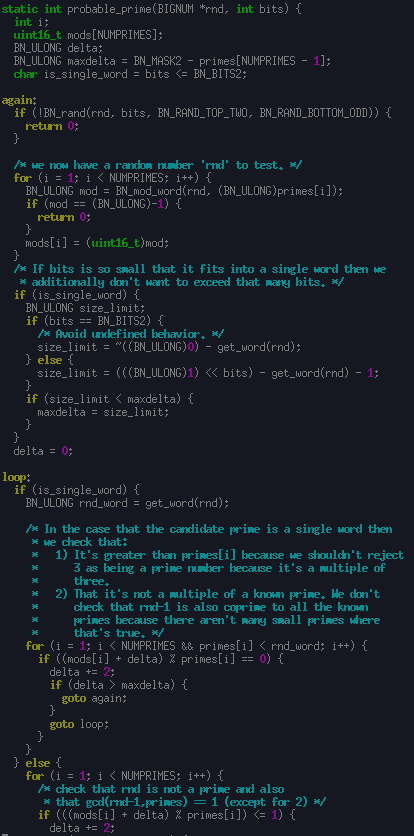
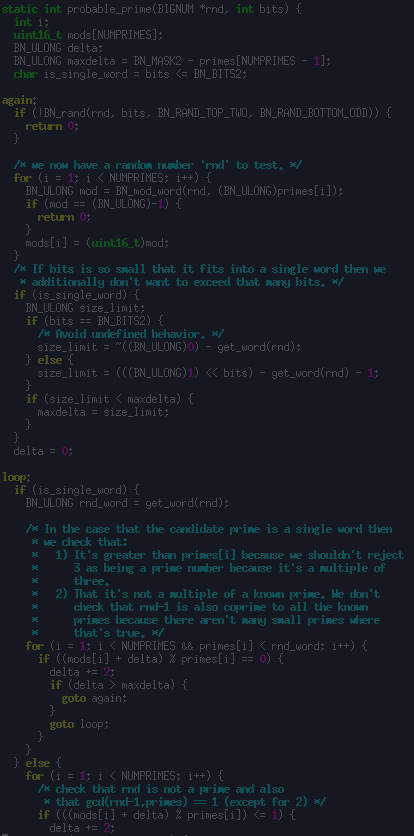
Color tweaks.

diff --git a/rsa_2019_10_29/tables/mul_mod_13.tex b/rsa_2019_10_29/tables/mul_mod_13.tex
@@ -1,16 +1,16 @@
 \(\begin{array}{p{3mm}|p{2mm}p{2mm}p{2mm}p{2mm}p{2mm}p{2mm}p{2mm}p{2mm}p{2mm}p{2mm}p{2mm}p{2mm}p{2mm}}
-\(*\) & {\color{cyan}0} & {\bf\color{green}1} & {\color{white}2} & {\color{white}3} & {\color{white}4} & {\color{white}5} & {\color{white}6} & {\color{white}7} & {\color{white}8} & {\color{white}9} & {\color{white}10} & {\color{white}11} & {\color{white}12}\\\hline
-{\color{cyan}0}&{\color{cyan}0}&{\color{cyan}0}&{\color{cyan}0}&{\color{cyan}0}&{\color{cyan}0}&{\color{cyan}0}&{\color{cyan}0}&{\color{cyan}0}&{\color{cyan}0}&{\color{cyan}0}&{\color{cyan}0}&{\color{cyan}0}&{\color{cyan}0}\\
-{\bf\color{green}1}&{\color{cyan}0}&{\bf\color{green}1}&{\color{white}2}&{\color{white}3}&{\color{white}4}&{\color{white}5}&{\color{white}6}&{\color{white}7}&{\color{white}8}&{\color{white}9}&{\color{white}10}&{\color{white}11}&{\color{white}12}\\
-{\color{white}2}&{\color{cyan}0}&{\color{white}2}&{\color{white}4}&{\color{white}6}&{\color{white}8}&{\color{white}10}&{\color{white}12}&{\bf\color{green}1}&{\color{white}3}&{\color{white}5}&{\color{white}7}&{\color{white}9}&{\color{white}11}\\
-{\color{white}3}&{\color{cyan}0}&{\color{white}3}&{\color{white}6}&{\color{white}9}&{\color{white}12}&{\color{white}2}&{\color{white}5}&{\color{white}8}&{\color{white}11}&{\bf\color{green}1}&{\color{white}4}&{\color{white}7}&{\color{white}10}\\
-{\color{white}4}&{\color{cyan}0}&{\color{white}4}&{\color{white}8}&{\color{white}12}&{\color{white}3}&{\color{white}7}&{\color{white}11}&{\color{white}2}&{\color{white}6}&{\color{white}10}&{\bf\color{green}1}&{\color{white}5}&{\color{white}9}\\
-{\color{white}5}&{\color{cyan}0}&{\color{white}5}&{\color{white}10}&{\color{white}2}&{\color{white}7}&{\color{white}12}&{\color{white}4}&{\color{white}9}&{\bf\color{green}1}&{\color{white}6}&{\color{white}11}&{\color{white}3}&{\color{white}8}\\
-{\color{white}6}&{\color{cyan}0}&{\color{white}6}&{\color{white}12}&{\color{white}5}&{\color{white}11}&{\color{white}4}&{\color{white}10}&{\color{white}3}&{\color{white}9}&{\color{white}2}&{\color{white}8}&{\bf\color{green}1}&{\color{white}7}\\
-{\color{white}7}&{\color{cyan}0}&{\color{white}7}&{\bf\color{green}1}&{\color{white}8}&{\color{white}2}&{\color{white}9}&{\color{white}3}&{\color{white}10}&{\color{white}4}&{\color{white}11}&{\color{white}5}&{\color{white}12}&{\color{white}6}\\
-{\color{white}8}&{\color{cyan}0}&{\color{white}8}&{\color{white}3}&{\color{white}11}&{\color{white}6}&{\bf\color{green}1}&{\color{white}9}&{\color{white}4}&{\color{white}12}&{\color{white}7}&{\color{white}2}&{\color{white}10}&{\color{white}5}\\
-{\color{white}9}&{\color{cyan}0}&{\color{white}9}&{\color{white}5}&{\bf\color{green}1}&{\color{white}10}&{\color{white}6}&{\color{white}2}&{\color{white}11}&{\color{white}7}&{\color{white}3}&{\color{white}12}&{\color{white}8}&{\color{white}4}\\
-{\color{white}10}&{\color{cyan}0}&{\color{white}10}&{\color{white}7}&{\color{white}4}&{\bf\color{green}1}&{\color{white}11}&{\color{white}8}&{\color{white}5}&{\color{white}2}&{\color{white}12}&{\color{white}9}&{\color{white}6}&{\color{white}3}\\
-{\color{white}11}&{\color{cyan}0}&{\color{white}11}&{\color{white}9}&{\color{white}7}&{\color{white}5}&{\color{white}3}&{\bf\color{green}1}&{\color{white}12}&{\color{white}10}&{\color{white}8}&{\color{white}6}&{\color{white}4}&{\color{white}2}\\
-{\color{white}12}&{\color{cyan}0}&{\color{white}12}&{\color{white}11}&{\color{white}10}&{\color{white}9}&{\color{white}8}&{\color{white}7}&{\color{white}6}&{\color{white}5}&{\color{white}4}&{\color{white}3}&{\color{white}2}&{\bf\color{green}1}\\
+\(*\) & {\color{cybercyan}0} & {\bf\color{green}1} & {\color{white}2} & {\color{white}3} & {\color{white}4} & {\color{white}5} & {\color{white}6} & {\color{white}7} & {\color{white}8} & {\color{white}9} & {\color{white}10} & {\color{white}11} & {\color{white}12}\\\hline
+{\color{cybercyan}0}&{\color{cybercyan}0}&{\color{cybercyan}0}&{\color{cybercyan}0}&{\color{cybercyan}0}&{\color{cybercyan}0}&{\color{cybercyan}0}&{\color{cybercyan}0}&{\color{cybercyan}0}&{\color{cybercyan}0}&{\color{cybercyan}0}&{\color{cybercyan}0}&{\color{cybercyan}0}&{\color{cybercyan}0}\\
+{\bf\color{green}1}&{\color{cybercyan}0}&{\bf\color{green}1}&{\color{white}2}&{\color{white}3}&{\color{white}4}&{\color{white}5}&{\color{white}6}&{\color{white}7}&{\color{white}8}&{\color{white}9}&{\color{white}10}&{\color{white}11}&{\color{white}12}\\
+{\color{white}2}&{\color{cybercyan}0}&{\color{white}2}&{\color{white}4}&{\color{white}6}&{\color{white}8}&{\color{white}10}&{\color{white}12}&{\bf\color{green}1}&{\color{white}3}&{\color{white}5}&{\color{white}7}&{\color{white}9}&{\color{white}11}\\
+{\color{white}3}&{\color{cybercyan}0}&{\color{white}3}&{\color{white}6}&{\color{white}9}&{\color{white}12}&{\color{white}2}&{\color{white}5}&{\color{white}8}&{\color{white}11}&{\bf\color{green}1}&{\color{white}4}&{\color{white}7}&{\color{white}10}\\
+{\color{white}4}&{\color{cybercyan}0}&{\color{white}4}&{\color{white}8}&{\color{white}12}&{\color{white}3}&{\color{white}7}&{\color{white}11}&{\color{white}2}&{\color{white}6}&{\color{white}10}&{\bf\color{green}1}&{\color{white}5}&{\color{white}9}\\
+{\color{white}5}&{\color{cybercyan}0}&{\color{white}5}&{\color{white}10}&{\color{white}2}&{\color{white}7}&{\color{white}12}&{\color{white}4}&{\color{white}9}&{\bf\color{green}1}&{\color{white}6}&{\color{white}11}&{\color{white}3}&{\color{white}8}\\
+{\color{white}6}&{\color{cybercyan}0}&{\color{white}6}&{\color{white}12}&{\color{white}5}&{\color{white}11}&{\color{white}4}&{\color{white}10}&{\color{white}3}&{\color{white}9}&{\color{white}2}&{\color{white}8}&{\bf\color{green}1}&{\color{white}7}\\
+{\color{white}7}&{\color{cybercyan}0}&{\color{white}7}&{\bf\color{green}1}&{\color{white}8}&{\color{white}2}&{\color{white}9}&{\color{white}3}&{\color{white}10}&{\color{white}4}&{\color{white}11}&{\color{white}5}&{\color{white}12}&{\color{white}6}\\
+{\color{white}8}&{\color{cybercyan}0}&{\color{white}8}&{\color{white}3}&{\color{white}11}&{\color{white}6}&{\bf\color{green}1}&{\color{white}9}&{\color{white}4}&{\color{white}12}&{\color{white}7}&{\color{white}2}&{\color{white}10}&{\color{white}5}\\
+{\color{white}9}&{\color{cybercyan}0}&{\color{white}9}&{\color{white}5}&{\bf\color{green}1}&{\color{white}10}&{\color{white}6}&{\color{white}2}&{\color{white}11}&{\color{white}7}&{\color{white}3}&{\color{white}12}&{\color{white}8}&{\color{white}4}\\
+{\color{white}10}&{\color{cybercyan}0}&{\color{white}10}&{\color{white}7}&{\color{white}4}&{\bf\color{green}1}&{\color{white}11}&{\color{white}8}&{\color{white}5}&{\color{white}2}&{\color{white}12}&{\color{white}9}&{\color{white}6}&{\color{white}3}\\
+{\color{white}11}&{\color{cybercyan}0}&{\color{white}11}&{\color{white}9}&{\color{white}7}&{\color{white}5}&{\color{white}3}&{\bf\color{green}1}&{\color{white}12}&{\color{white}10}&{\color{white}8}&{\color{white}6}&{\color{white}4}&{\color{white}2}\\
+{\color{white}12}&{\color{cybercyan}0}&{\color{white}12}&{\color{white}11}&{\color{white}10}&{\color{white}9}&{\color{white}8}&{\color{white}7}&{\color{white}6}&{\color{white}5}&{\color{white}4}&{\color{white}3}&{\color{white}2}&{\bf\color{green}1}\\
 \end{array}\)

diff --git a/rsa_2019_10_29/tables/mul_mod_8.tex b/rsa_2019_10_29/tables/mul_mod_8.tex
@@ -1,11 +1,11 @@
 \(\begin{array}{p{3mm}|p{2mm}p{2mm}p{2mm}p{2mm}p{2mm}p{2mm}p{2mm}p{2mm}}
-\(*\) & {\color{cyan}0} & {\bf\color{green}1} & {\color{white}2} & {\color{white}3} & {\color{white}4} & {\color{white}5} & {\color{white}6} & {\color{white}7}\\\hline
-{\color{cyan}0}&{\color{cyan}0}&{\color{cyan}0}&{\color{cyan}0}&{\color{cyan}0}&{\color{cyan}0}&{\color{cyan}0}&{\color{cyan}0}&{\color{cyan}0}\\
-{\bf\color{green}1}&{\color{cyan}0}&{\bf\color{green}1}&{\color{white}2}&{\color{white}3}&{\color{white}4}&{\color{white}5}&{\color{white}6}&{\color{white}7}\\
-{\color{white}2}&{\color{cyan}0}&{\color{white}2}&{\color{white}4}&{\color{white}6}&{\color{cyan}0}&{\color{white}2}&{\color{white}4}&{\color{white}6}\\
-{\color{white}3}&{\color{cyan}0}&{\color{white}3}&{\color{white}6}&{\bf\color{green}1}&{\color{white}4}&{\color{white}7}&{\color{white}2}&{\color{white}5}\\
-{\color{white}4}&{\color{cyan}0}&{\color{white}4}&{\color{cyan}0}&{\color{white}4}&{\color{cyan}0}&{\color{white}4}&{\color{cyan}0}&{\color{white}4}\\
-{\color{white}5}&{\color{cyan}0}&{\color{white}5}&{\color{white}2}&{\color{white}7}&{\color{white}4}&{\bf\color{green}1}&{\color{white}6}&{\color{white}3}\\
-{\color{white}6}&{\color{cyan}0}&{\color{white}6}&{\color{white}4}&{\color{white}2}&{\color{cyan}0}&{\color{white}6}&{\color{white}4}&{\color{white}2}\\
-{\color{white}7}&{\color{cyan}0}&{\color{white}7}&{\color{white}6}&{\color{white}5}&{\color{white}4}&{\color{white}3}&{\color{white}2}&{\bf\color{green}1}\\
+\(*\) & {\color{cybercyan}0} & {\bf\color{green}1} & {\color{white}2} & {\color{white}3} & {\color{white}4} & {\color{white}5} & {\color{white}6} & {\color{white}7}\\\hline
+{\color{cybercyan}0}&{\color{cybercyan}0}&{\color{cybercyan}0}&{\color{cybercyan}0}&{\color{cybercyan}0}&{\color{cybercyan}0}&{\color{cybercyan}0}&{\color{cybercyan}0}&{\color{cybercyan}0}\\
+{\bf\color{green}1}&{\color{cybercyan}0}&{\bf\color{green}1}&{\color{white}2}&{\color{white}3}&{\color{white}4}&{\color{white}5}&{\color{white}6}&{\color{white}7}\\
+{\color{white}2}&{\color{cybercyan}0}&{\color{white}2}&{\color{white}4}&{\color{white}6}&{\color{cybercyan}0}&{\color{white}2}&{\color{white}4}&{\color{white}6}\\
+{\color{white}3}&{\color{cybercyan}0}&{\color{white}3}&{\color{white}6}&{\bf\color{green}1}&{\color{white}4}&{\color{white}7}&{\color{white}2}&{\color{white}5}\\
+{\color{white}4}&{\color{cybercyan}0}&{\color{white}4}&{\color{cybercyan}0}&{\color{white}4}&{\color{cybercyan}0}&{\color{white}4}&{\color{cybercyan}0}&{\color{white}4}\\
+{\color{white}5}&{\color{cybercyan}0}&{\color{white}5}&{\color{white}2}&{\color{white}7}&{\color{white}4}&{\bf\color{green}1}&{\color{white}6}&{\color{white}3}\\
+{\color{white}6}&{\color{cybercyan}0}&{\color{white}6}&{\color{white}4}&{\color{white}2}&{\color{cybercyan}0}&{\color{white}6}&{\color{white}4}&{\color{white}2}\\
+{\color{white}7}&{\color{cybercyan}0}&{\color{white}7}&{\color{white}6}&{\color{white}5}&{\color{white}4}&{\color{white}3}&{\color{white}2}&{\bf\color{green}1}\\
 \end{array}\)

diff --git a/rsa_2019_10_29/tables/add_mod_8.tex b/rsa_2019_10_29/tables/add_mod_8.tex
@@ -1,11 +1,11 @@
 \(\begin{array}{p{3mm}|p{2mm}p{2mm}p{2mm}p{2mm}p{2mm}p{2mm}p{2mm}p{2mm}}
-\(+\) & {\color{cyan}0} & {\bf\color{green}1} & {\color{white}2} & {\color{white}3} & {\color{white}4} & {\color{white}5} & {\color{white}6} & {\color{white}7}\\\hline
-{\color{cyan}0}&{\color{cyan}0}&{\bf\color{green}1}&{\color{white}2}&{\color{white}3}&{\color{white}4}&{\color{white}5}&{\color{white}6}&{\color{white}7}\\
-{\bf\color{green}1}&{\bf\color{green}1}&{\color{white}2}&{\color{white}3}&{\color{white}4}&{\color{white}5}&{\color{white}6}&{\color{white}7}&{\color{cyan}0}\\
-{\color{white}2}&{\color{white}2}&{\color{white}3}&{\color{white}4}&{\color{white}5}&{\color{white}6}&{\color{white}7}&{\color{cyan}0}&{\bf\color{green}1}\\
-{\color{white}3}&{\color{white}3}&{\color{white}4}&{\color{white}5}&{\color{white}6}&{\color{white}7}&{\color{cyan}0}&{\bf\color{green}1}&{\color{white}2}\\
-{\color{white}4}&{\color{white}4}&{\color{white}5}&{\color{white}6}&{\color{white}7}&{\color{cyan}0}&{\bf\color{green}1}&{\color{white}2}&{\color{white}3}\\
-{\color{white}5}&{\color{white}5}&{\color{white}6}&{\color{white}7}&{\color{cyan}0}&{\bf\color{green}1}&{\color{white}2}&{\color{white}3}&{\color{white}4}\\
-{\color{white}6}&{\color{white}6}&{\color{white}7}&{\color{cyan}0}&{\bf\color{green}1}&{\color{white}2}&{\color{white}3}&{\color{white}4}&{\color{white}5}\\
-{\color{white}7}&{\color{white}7}&{\color{cyan}0}&{\bf\color{green}1}&{\color{white}2}&{\color{white}3}&{\color{white}4}&{\color{white}5}&{\color{white}6}\\
+\(+\) & {\color{cybercyan}0} & {\bf\color{green}1} & {\color{white}2} & {\color{white}3} & {\color{white}4} & {\color{white}5} & {\color{white}6} & {\color{white}7}\\\hline
+{\color{cybercyan}0}&{\color{cybercyan}0}&{\bf\color{green}1}&{\color{white}2}&{\color{white}3}&{\color{white}4}&{\color{white}5}&{\color{white}6}&{\color{white}7}\\
+{\bf\color{green}1}&{\bf\color{green}1}&{\color{white}2}&{\color{white}3}&{\color{white}4}&{\color{white}5}&{\color{white}6}&{\color{white}7}&{\color{cybercyan}0}\\
+{\color{white}2}&{\color{white}2}&{\color{white}3}&{\color{white}4}&{\color{white}5}&{\color{white}6}&{\color{white}7}&{\color{cybercyan}0}&{\bf\color{green}1}\\
+{\color{white}3}&{\color{white}3}&{\color{white}4}&{\color{white}5}&{\color{white}6}&{\color{white}7}&{\color{cybercyan}0}&{\bf\color{green}1}&{\color{white}2}\\
+{\color{white}4}&{\color{white}4}&{\color{white}5}&{\color{white}6}&{\color{white}7}&{\color{cybercyan}0}&{\bf\color{green}1}&{\color{white}2}&{\color{white}3}\\
+{\color{white}5}&{\color{white}5}&{\color{white}6}&{\color{white}7}&{\color{cybercyan}0}&{\bf\color{green}1}&{\color{white}2}&{\color{white}3}&{\color{white}4}\\
+{\color{white}6}&{\color{white}6}&{\color{white}7}&{\color{cybercyan}0}&{\bf\color{green}1}&{\color{white}2}&{\color{white}3}&{\color{white}4}&{\color{white}5}\\
+{\color{white}7}&{\color{white}7}&{\color{cybercyan}0}&{\bf\color{green}1}&{\color{white}2}&{\color{white}3}&{\color{white}4}&{\color{white}5}&{\color{white}6}\\
 \end{array}\)

diff --git a/rsa_2019_10_29/tables/mul_mod_7.tex b/rsa_2019_10_29/tables/mul_mod_7.tex
@@ -1,10 +1,10 @@
 \(\begin{array}{p{3mm}|p{2mm}p{2mm}p{2mm}p{2mm}p{2mm}p{2mm}p{2mm}}
-\(*\) & {\color{cyan}0} & {\bf\color{green}1} & {\color{white}2} & {\color{white}3} & {\color{white}4} & {\color{white}5} & {\color{white}6}\\\hline
-{\color{cyan}0}&{\color{cyan}0}&{\color{cyan}0}&{\color{cyan}0}&{\color{cyan}0}&{\color{cyan}0}&{\color{cyan}0}&{\color{cyan}0}\\
-{\bf\color{green}1}&{\color{cyan}0}&{\bf\color{green}1}&{\color{white}2}&{\color{white}3}&{\color{white}4}&{\color{white}5}&{\color{white}6}\\
-{\color{white}2}&{\color{cyan}0}&{\color{white}2}&{\color{white}4}&{\color{white}6}&{\bf\color{green}1}&{\color{white}3}&{\color{white}5}\\
-{\color{white}3}&{\color{cyan}0}&{\color{white}3}&{\color{white}6}&{\color{white}2}&{\color{white}5}&{\bf\color{green}1}&{\color{white}4}\\
-{\color{white}4}&{\color{cyan}0}&{\color{white}4}&{\bf\color{green}1}&{\color{white}5}&{\color{white}2}&{\color{white}6}&{\color{white}3}\\
-{\color{white}5}&{\color{cyan}0}&{\color{white}5}&{\color{white}3}&{\bf\color{green}1}&{\color{white}6}&{\color{white}4}&{\color{white}2}\\
-{\color{white}6}&{\color{cyan}0}&{\color{white}6}&{\color{white}5}&{\color{white}4}&{\color{white}3}&{\color{white}2}&{\bf\color{green}1}\\
+\(*\) & {\color{cybercyan}0} & {\bf\color{green}1} & {\color{white}2} & {\color{white}3} & {\color{white}4} & {\color{white}5} & {\color{white}6}\\\hline
+{\color{cybercyan}0}&{\color{cybercyan}0}&{\color{cybercyan}0}&{\color{cybercyan}0}&{\color{cybercyan}0}&{\color{cybercyan}0}&{\color{cybercyan}0}&{\color{cybercyan}0}\\
+{\bf\color{green}1}&{\color{cybercyan}0}&{\bf\color{green}1}&{\color{white}2}&{\color{white}3}&{\color{white}4}&{\color{white}5}&{\color{white}6}\\
+{\color{white}2}&{\color{cybercyan}0}&{\color{white}2}&{\color{white}4}&{\color{white}6}&{\bf\color{green}1}&{\color{white}3}&{\color{white}5}\\
+{\color{white}3}&{\color{cybercyan}0}&{\color{white}3}&{\color{white}6}&{\color{white}2}&{\color{white}5}&{\bf\color{green}1}&{\color{white}4}\\
+{\color{white}4}&{\color{cybercyan}0}&{\color{white}4}&{\bf\color{green}1}&{\color{white}5}&{\color{white}2}&{\color{white}6}&{\color{white}3}\\
+{\color{white}5}&{\color{cybercyan}0}&{\color{white}5}&{\color{white}3}&{\bf\color{green}1}&{\color{white}6}&{\color{white}4}&{\color{white}2}\\
+{\color{white}6}&{\color{cybercyan}0}&{\color{white}6}&{\color{white}5}&{\color{white}4}&{\color{white}3}&{\color{white}2}&{\bf\color{green}1}\\
 \end{array}\)

diff --git a/rsa_2019_10_29/tables/add_mod_7.tex b/rsa_2019_10_29/tables/add_mod_7.tex
@@ -1,10 +1,10 @@
 \(\begin{array}{p{3mm}|p{2mm}p{2mm}p{2mm}p{2mm}p{2mm}p{2mm}p{2mm}}
-\(+\) & {\color{cyan}0} & {\bf\color{green}1} & {\color{white}2} & {\color{white}3} & {\color{white}4} & {\color{white}5} & {\color{white}6}\\\hline
-{\color{cyan}0}&{\color{cyan}0}&{\bf\color{green}1}&{\color{white}2}&{\color{white}3}&{\color{white}4}&{\color{white}5}&{\color{white}6}\\
-{\bf\color{green}1}&{\bf\color{green}1}&{\color{white}2}&{\color{white}3}&{\color{white}4}&{\color{white}5}&{\color{white}6}&{\color{cyan}0}\\
-{\color{white}2}&{\color{white}2}&{\color{white}3}&{\color{white}4}&{\color{white}5}&{\color{white}6}&{\color{cyan}0}&{\bf\color{green}1}\\
-{\color{white}3}&{\color{white}3}&{\color{white}4}&{\color{white}5}&{\color{white}6}&{\color{cyan}0}&{\bf\color{green}1}&{\color{white}2}\\
-{\color{white}4}&{\color{white}4}&{\color{white}5}&{\color{white}6}&{\color{cyan}0}&{\bf\color{green}1}&{\color{white}2}&{\color{white}3}\\
-{\color{white}5}&{\color{white}5}&{\color{white}6}&{\color{cyan}0}&{\bf\color{green}1}&{\color{white}2}&{\color{white}3}&{\color{white}4}\\
-{\color{white}6}&{\color{white}6}&{\color{cyan}0}&{\bf\color{green}1}&{\color{white}2}&{\color{white}3}&{\color{white}4}&{\color{white}5}\\
+\(+\) & {\color{cybercyan}0} & {\bf\color{green}1} & {\color{white}2} & {\color{white}3} & {\color{white}4} & {\color{white}5} & {\color{white}6}\\\hline
+{\color{cybercyan}0}&{\color{cybercyan}0}&{\bf\color{green}1}&{\color{white}2}&{\color{white}3}&{\color{white}4}&{\color{white}5}&{\color{white}6}\\
+{\bf\color{green}1}&{\bf\color{green}1}&{\color{white}2}&{\color{white}3}&{\color{white}4}&{\color{white}5}&{\color{white}6}&{\color{cybercyan}0}\\
+{\color{white}2}&{\color{white}2}&{\color{white}3}&{\color{white}4}&{\color{white}5}&{\color{white}6}&{\color{cybercyan}0}&{\bf\color{green}1}\\
+{\color{white}3}&{\color{white}3}&{\color{white}4}&{\color{white}5}&{\color{white}6}&{\color{cybercyan}0}&{\bf\color{green}1}&{\color{white}2}\\
+{\color{white}4}&{\color{white}4}&{\color{white}5}&{\color{white}6}&{\color{cybercyan}0}&{\bf\color{green}1}&{\color{white}2}&{\color{white}3}\\
+{\color{white}5}&{\color{white}5}&{\color{white}6}&{\color{cybercyan}0}&{\bf\color{green}1}&{\color{white}2}&{\color{white}3}&{\color{white}4}\\
+{\color{white}6}&{\color{white}6}&{\color{cybercyan}0}&{\bf\color{green}1}&{\color{white}2}&{\color{white}3}&{\color{white}4}&{\color{white}5}\\
 \end{array}\)

diff --git a/rsa_2019_10_29/tables/exp_mod_13.tex b/rsa_2019_10_29/tables/exp_mod_13.tex
@@ -1,6 +1,6 @@
 \(\begin{array}{p{3mm}|p{2mm}p{2mm}p{2mm}p{2mm}p{2mm}p{2mm}p{2mm}p{2mm}p{2mm}p{2mm}p{2mm}p{2mm}p{2mm}}
-\(x^y\) & {\color{cyan}0} & {\bf\color{green}1} & {\color{white}2} & {\color{white}3} & {\color{white}4} & {\color{white}5} & {\color{white}6} & {\color{white}7} & {\color{white}8} & {\color{white}9} & {\color{white}10} & {\color{white}11} & {\color{white}12}\\\hline
-{\color{cyan}0}&{\bf\color{green}1}&{\color{cyan}0}&{\color{cyan}0}&{\color{cyan}0}&{\color{cyan}0}&{\color{cyan}0}&{\color{cyan}0}&{\color{cyan}0}&{\color{cyan}0}&{\color{cyan}0}&{\color{cyan}0}&{\color{cyan}0}&{\color{cyan}0}\\
+\(x^y\) & {\color{cybercyan}0} & {\bf\color{green}1} & {\color{white}2} & {\color{white}3} & {\color{white}4} & {\color{white}5} & {\color{white}6} & {\color{white}7} & {\color{white}8} & {\color{white}9} & {\color{white}10} & {\color{white}11} & {\color{white}12}\\\hline
+{\color{cybercyan}0}&{\bf\color{green}1}&{\color{cybercyan}0}&{\color{cybercyan}0}&{\color{cybercyan}0}&{\color{cybercyan}0}&{\color{cybercyan}0}&{\color{cybercyan}0}&{\color{cybercyan}0}&{\color{cybercyan}0}&{\color{cybercyan}0}&{\color{cybercyan}0}&{\color{cybercyan}0}&{\color{cybercyan}0}\\
 {\bf\color{green}1}&{\bf\color{green}1}&{\bf\color{green}1}&{\bf\color{green}1}&{\bf\color{green}1}&{\bf\color{green}1}&{\bf\color{green}1}&{\bf\color{green}1}&{\bf\color{green}1}&{\bf\color{green}1}&{\bf\color{green}1}&{\bf\color{green}1}&{\bf\color{green}1}&{\bf\color{green}1}\\
 {\color{white}2}&{\bf\color{green}1}&{\color{white}2}&{\color{white}4}&{\color{white}8}&{\color{white}3}&{\color{white}6}&{\color{white}12}&{\color{white}11}&{\color{white}9}&{\color{white}5}&{\color{white}10}&{\color{white}7}&{\bf\color{green}1}\\
 {\color{white}3}&{\bf\color{green}1}&{\color{white}3}&{\color{white}9}&{\bf\color{green}1}&{\color{white}3}&{\color{white}9}&{\bf\color{green}1}&{\color{white}3}&{\color{white}9}&{\bf\color{green}1}&{\color{white}3}&{\color{white}9}&{\bf\color{green}1}\\

diff --git a/rsa_2019_10_29/rsa_presentation.tex b/rsa_2019_10_29/rsa_presentation.tex
@@ -6,19 +6,19 @@
 \date{October 29, 2019}
 \author{Avi Weinstock (\Verb|aweinstock|)}
 
+\definecolor{rpisecbgcolor}{RGB}{21, 24, 32} % 151820
 \definecolor{cybercyan}{RGB}{42, 171, 219} % 2aabdb
+\definecolor{cybergreen}{RGB}{106, 220, 169} % 6adca9
 
 \setbeamercolor{normal text}{fg=white}
 \setbeamercolor{frametitle}{fg=cybercyan}
 \setbeamercolor{title}{fg=cybercyan}
 \setbeamercolor{structure}{fg=cybercyan}
 
-%151820
 %>>> [0x15,0x18,0x20]
 %[21, 24, 32]
 % convert rpisec_background.png -alpha set -fill '#15182080' -draw 'rectangle 0 0 1090 1216' rpisec_background2.png
-% convert probable_prime.png -alpha set -fill '#15182080' -draw 'rectangle 0 0 414 836' probable_prime2.png
-\definecolor{rpisecbgcolor}{RGB}{21, 24, 32}
+% convert probable_prime.png -alpha set -fill '#151820c0' -draw 'rectangle 0 0 414 836' probable_prime2.png
 \usebackgroundtemplate{
 \colorbox{rpisecbgcolor}{\raisebox{1pt}[\paperheight][\depth]{\hspace{0.6\paperwidth}
 %\includegraphics[width=0.4\paperwidth, height=\paperheight]{rpisec_background2.png}

diff --git a/rsa_2019_10_29/gen_group_table.py b/rsa_2019_10_29/gen_group_table.py
@@ -2,7 +2,7 @@ import operator
 import os
 
 def addcolor(i):
-    return {0: '{\\color{cyan}0}', 1: '{\\bf\\color{green}1}'}.get(i, '{\\color{white}%d}' % (i,))
+    return {0: '{\\color{cybercyan}0}', 1: '{\\bf\\color{green}1}'}.get(i, '{\\color{white}%d}' % (i,))
 
 def table(symbol, n, f):
     #s = '\\(\\begin{array}{c|' + 'c'*n + '}\n'
